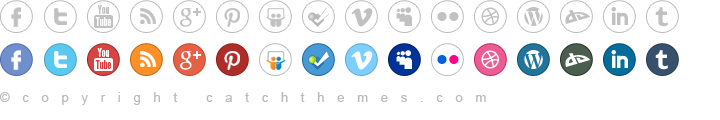
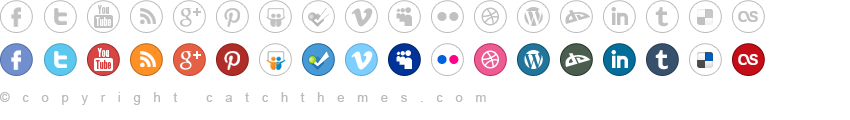
New version of Simple Catch - 1.2.5

diff --git a/style.css b/style.css
@@ -4,7 +4,7 @@ Theme URI: http://catchthemes.com/wp-themes/simplecatch
 Author: Catch Themes Team
 Author URI: http://catchthemes.com
 Description: Simple Catch is a simple and clean WordPress Theme by Catch Themes. Easy Customize through Theme Options and Custom Widgets. Features: Custom Menu, Custom Widgets, Three Custom Page Template for Layout, Featured Slider, Theme Options (Header Logo, Footer Logo, Fav Icon, Social Icons, Custom CSS Styles, Webmaster Tools)  and Support for popular plugins (Breadcrumb NavXT, Contact Form 7, WP-PageNavi, WP Page Numbers). It is based on popular 978 Grid System CSS Framework.
-Version: 1.2.4
+Version: 1.2.5
 License: GNU General Public License
 License URI: license.txt
 Tags: black, gray, silver, white, light, one-column, two-columns, left-sidebar, right-sidebar, fixed-width, custom-menu, featured-images, full-width-template, theme-options, threaded-comments
@@ -546,6 +546,20 @@ h2#site-description {
 #header .social-search ul.social-profile li.tumblr a:hover {
 	background-position: -646px -43px;
 }
+#header .social-search ul.social-profile li.delicious a {
+	background-position: -689px 0;
+}
+#header .social-search ul.social-profile li.delicious a:hover {
+	background-position: -689px -43px;
+}
+#header .social-search ul.social-profile li.lastfm a {
+   	background-position: -732px 0;
+
+}
+#header .social-search ul.social-profile li.lastfm a:hover {
+	background-position: -732px -43px;
+}
+
 
 
 /* Search Form */

diff --git a/functions/simplecatch_functions.php b/functions/simplecatch_functions.php
@@ -76,13 +76,11 @@ function simplecatch_filter_wp_title( $title ) {
     
 
 	// For Homepage
-    if (  is_home() || is_front_page() ) {
-		
-		$filtered_title .= $site_name;
-		
+    if (  is_home() || is_front_page() ) {		
+		$filtered_title = $site_name;		
         // Get the Site Description
         $site_description = get_bloginfo( 'description' );
-		if ( $site_description )  {
+		if ( !empty( $site_description ) )  {
         	// Append Site Description to title
         	$filtered_title .= ' &#124; '. $site_description;
 		}
@@ -181,6 +179,9 @@ function simplecatch_headerlogo() {
 	
 	// get data value from simplecatch_options through theme options
 	$options = get_option( 'simplecatch_options' );	
+	if( !isset( $options[ 'remove_header_logo' ] ) ) {
+		$options[ 'remove_header_logo' ] = "0";
+	}
 		
 	if ( !$simplecatch_headerlogo = get_transient( 'simplecatch_headerlogo' ) ) {
 		echo '<!-- refreshing cache -->';
@@ -217,6 +218,9 @@ function simplecatch_footerlogo() {
 	
 	// get data value from catch_options through theme options
 	$options = get_option( 'simplecatch_options' );
+	if( !isset( $options[ 'remove_footer_logo' ] ) ) {
+		$options[ 'remove_footer_logo' ] = "0";
+	}
 	
 	if ( !$simplecatch_footerlogo = get_transient( 'simplecatch_footerlogo' ) ) {
 		echo '<!-- refreshing cache -->';
@@ -256,6 +260,9 @@ function simplecatch_favicon() {
 	
 	// get data value from simplecatch_options through theme options
 	$options = get_option( 'simplecatch_options' );
+	if( !isset( $options[ 'remove_favicon' ] ) ) {
+		$options[ 'remove_favicon' ] = "0";
+	}
 	
 	if( ( !$simplecatch_favicon = get_transient( 'simplecatch_favicon' ) ) ) {
 		echo '<!-- refreshing cache -->';
@@ -299,7 +306,9 @@ function simplecatch_sliders() {
 	// get data value from simplecatch_options_slider through theme options
 	$options = get_option( 'simplecatch_options_slider' );
 	// get slider_qty from theme options
-	$postperpage = $options[ 'slider_qty' ];
+	if( isset( $options[ 'slider_qty' ] ) ) {
+		$postperpage = $options[ 'slider_qty' ];
+	}
 	
 	if( ( !$simplecatch_sliders = get_transient( 'simplecatch_sliders' ) ) && !empty( $options[ 'featured_slider' ] ) ) {
 		echo '<!-- refreshing cache -->';
@@ -389,7 +398,7 @@ function simplecatch_headersocialnetworks() {
 	// get the data value from theme options
 	$options = get_option( 'simplecatch_options' );
 	
-	if ( ( !$simplecatch_headersocialnetworks = get_transient( 'simplecatch_headersocialnetworks' ) ) &&  ( !empty( $options[ 'social_facebook' ] ) || !empty( $options[ 'social_twitter' ] ) || !empty( $options[ 'social_googleplus' ] ) || !empty( $options[ 'social_pinterest' ] ) || !empty( $options[ 'social_youtube' ] ) || !empty( $options[ 'social_linkedin' ] ) || !empty( $options[ 'social_slideshare' ] )  || !empty( $options[ 'social_foursquare' ] ) || !empty( $options[ 'social_rss' ] )   || !empty( $options[ 'social_vimeo' ] ) || !empty( $options[ 'social_flickr' ] ) || !empty( $options[ 'social_tumblr' ] ) || !empty( $options[ 'social_deviantart' ] ) || !empty( $options[ 'social_dribbble' ] ) || !empty( $options[ 'social_myspace' ] ) || !empty( $options[ 'social_wordpress' ] ) ) )  {
+	if ( ( !$simplecatch_headersocialnetworks = get_transient( 'simplecatch_headersocialnetworks' ) ) &&  ( !empty( $options[ 'social_facebook' ] ) || !empty( $options[ 'social_twitter' ] ) || !empty( $options[ 'social_googleplus' ] ) || !empty( $options[ 'social_pinterest' ] ) || !empty( $options[ 'social_youtube' ] ) || !empty( $options[ 'social_linkedin' ] ) || !empty( $options[ 'social_slideshare' ] )  || !empty( $options[ 'social_foursquare' ] ) || !empty( $options[ 'social_rss' ] )   || !empty( $options[ 'social_vimeo' ] ) || !empty( $options[ 'social_flickr' ] ) || !empty( $options[ 'social_tumblr' ] ) || !empty( $options[ 'social_deviantart' ] ) || !empty( $options[ 'social_dribbble' ] ) || !empty( $options[ 'social_myspace' ] ) || !empty( $options[ 'social_wordpress' ] ) || !empty( $options[ 'social_delicious' ] ) || !empty( $options[ 'social_lastfm' ] ) ) )  {
 	
 		echo '<!-- refreshing cache -->';
 		
@@ -485,6 +494,16 @@ function simplecatch_headersocialnetworks() {
 					$simplecatch_headersocialnetworks .=
 						'<li class="rss"><a href="'.$options[ 'social_rss' ].'" title="'.sprintf( esc_attr__( '%s in RSS', 'simplecatch' ),get_bloginfo('name') ).'" target="_blank">'.get_bloginfo( 'name' ).' RSS </a></li>';
 				}
+				//Delicious
+				if ( !empty( $options[ 'social_delicious' ] ) ) {
+					$simplecatch_headersocialnetworks .=
+						'<li class="delicious"><a href="'.$options[ 'social_delicious' ].'" title="'.sprintf( esc_attr__( '%s in Delicious', 'simplecatch' ),get_bloginfo('name') ).'" target="_blank">'.get_bloginfo( 'name' ).' Delicious </a></li>';
+				}				
+				//Last.fm
+				if ( !empty( $options[ 'social_lastfm' ] ) ) {
+					$simplecatch_headersocialnetworks .=
+						'<li class="lastfm"><a href="'.$options[ 'social_lastfm' ].'" title="'.sprintf( esc_attr__( '%s in Last.fm', 'simplecatch' ),get_bloginfo('name') ).'" target="_blank">'.get_bloginfo( 'name' ).' Last.fm </a></li>';
+				}				
 		
 				$simplecatch_headersocialnetworks .='
 			</ul>
@@ -516,25 +535,26 @@ function simplecatch_site_verification() {
 		echo '<!-- refreshing cache -->';	
 	
 		//google
-		if ( $options['google_verification'] ) {
+		if ( !empty( $options['google_verification'] ) ) {
 			$simplecatch_site_verification .= '<meta name="google-site-verification" content="' . $options['google_verification'] . '" />' . "\n";
 		}
 	
 		//bing
-		if ( $options['bing_verification'] ) {
+		if ( !empty( $options['bing_verification'] ) ) {
 			$simplecatch_site_verification .= '<meta name="msvalidate.01" content="' . $options['bing_verification'] . '" />' . "\n";
 		}
 	
 		//yahoo
-		 if ( $options['yahoo_verification'] ) {
+		 if ( !empty( $options['yahoo_verification'] ) ) {
 			$simplecatch_site_verification .= '<meta name="y_key" content="' . $options['yahoo_verification'] . '" />' . "\n";
 		}
 	
 		//site stats, analytics header code
-		if ( $options['analytic_header'] ) {
+		if ( !empty( $options['analytic_header'] ) ) {
 			$simplecatch_site_verification .= $options[ 'analytic_header' ];
 		}
 	}
+	echo $simplecatch_site_verification;
 }
 add_action('wp_head', 'simplecatch_site_verification');
 
@@ -554,8 +574,8 @@ function simplecatch_footercode() {
 	$options = get_option( 'simplecatch_options' );
 	
 	if ( ( !$simplecatch_footercode = get_transient( 'simplecatch_footercode' ) ) && !empty( $options[ 'analytic_footer' ] ) ) {
-		echo '<!-- refreshing cache -->';
-			
+		echo '<!-- refreshing cache -->';	
+		
 		$simplecatch_footercode = $options[ 'analytic_footer' ];
 			
 	set_transient( 'simplecatch_footercode', $simplecatch_footercode, 86940 );

diff --git a/functions/panel/theme_options.php b/functions/panel/theme_options.php
@@ -317,6 +317,16 @@ function simplecatch_options_page() {
                                 </td>
                             </tr>
                             <tr>
+                                <th scope="row"><h4><?php _e( 'Delicious', 'simplecatch' ); ?></h4></th>
+                                <td><input type="text" size="45" name="simplecatch_options[social_delicious]" value="<?php if ( isset( $options[ 'social_delicious' ] ) ) echo esc_url( $options[ 'social_delicious' ] ); ?>" />
+                                </td>
+                            </tr>                           
+                            <tr>
+                                <th scope="row"><h4><?php _e( 'Last.fm', 'simplecatch' ); ?> </h4></th>
+                                <td><input type="text" size="45" name="simplecatch_options[social_lastfm]" value="<?php if ( isset( $options[ 'social_lastfm' ] ) ) echo esc_url( $options[ 'social_lastfm' ] ); ?>" />
+                                </td>
+                            </tr>
+                            <tr>
                                 <td></td><td><?php _e( 'Note: You can add your social links.', 'simplecatch' ); ?></td>
                             </tr>
                         </tbody>
@@ -351,19 +361,19 @@ function simplecatch_options_page() {
                     <table class="form-table">  
                     	<tbody>    
                             <tr>
-                                <th scope="row"><label><h4><?php _e( 'Google Site Verification ID', 'catchbox' ); ?></h4></label></th>
+                                <th scope="row"><label><h4><?php _e( 'Google Site Verification ID', 'simplecatch' ); ?></h4></label></th>
                                 <td><input type="text" size="45" name="simplecatch_options[google_verification]" value="<?php if( isset( $options[ 'google_verification' ] ) ) echo esc_attr( $options[ 'google_verification' ] ); ?>" />
                                 </td>
                             </tr>
                             
                             <tr> 
-                                <th scope="row"><label><h4><?php _e( 'Yahoo Site Verification ID', 'catchbox' ); ?></h4></label></th>
+                                <th scope="row"><label><h4><?php _e( 'Yahoo Site Verification ID', 'simplecatch' ); ?></h4></label></th>
                                 <td><input type="text" size="45" name="simplecatch_options[yahoo_verification]" value="<?php if ( isset( $options[ 'yahoo_verification' ] ) ) echo esc_attr( $options[ 'yahoo_verification'] ); ?>" />
                                 </td>
                             </tr>
                             
                             <tr>
-                                <th scope="row"><label><h4><?php _e( 'Bing Site Verification ID', 'catchbox' ); ?></h4></label></th>
+                                <th scope="row"><label><h4><?php _e( 'Bing Site Verification ID', 'simplecatch' ); ?></h4></label></th>
                                 <td><input type="text" size="45" name="simplecatch_options[bing_verification]" value="<?php if ( isset( $options[ 'bing_verification' ] ) ) echo esc_attr( $options[ 'bing_verification' ] ); ?>" />
                                 </td>
                             </tr>
@@ -555,6 +565,12 @@ function simplecatch_options_validation( $options ){
 	if( isset( $options[ 'social_rss' ] ) ) {
 		$options_validated[ 'social_rss' ] = esc_url_raw( $options[ 'social_rss' ] );
 	}
+	if( isset( $options[ 'social_delicious' ] ) ) {
+		$options_validated[ 'social_delicious' ] = esc_url_raw( $options[ 'social_delicious' ] );
+	}	
+	if( isset( $options[ 'social_lastfm' ] ) ) {
+		$options_validated[ 'social_lastfm' ] = esc_url_raw( $options[ 'social_lastfm' ] );
+	}	
 	
 	//Custom CSS Style Validation
 	if ( isset( $options['custom_css'] ) ) {
@@ -576,14 +592,7 @@ function simplecatch_options_validation( $options ){
 	}
 	if( isset( $options[ 'analytic_footer' ] ) ) {
 		$options_validated[ 'analytic_footer' ] = wp_kses_stripslashes( $options[ 'analytic_footer' ] );	
-	}
-			
-	// data validation for tracking code
-	if( isset( $options[ 'tracker_header' ] ) )
-		$options_validated[ 'tracker_header' ] = wp_kses_stripslashes( $options[ 'tracker_header' ] );
-	if( isset( $options[ 'tracker_footer' ] ) )
-		$options_validated[ 'tracker_footer' ] = wp_kses_stripslashes( $options[ 'tracker_footer' ] );
-		
+	}		
 	
 	//Clearing the theme option cache
 	if( function_exists( 'simplecatch_themeoption_invalidate_caches' ) ) simplecatch_themeoption_invalidate_caches();
